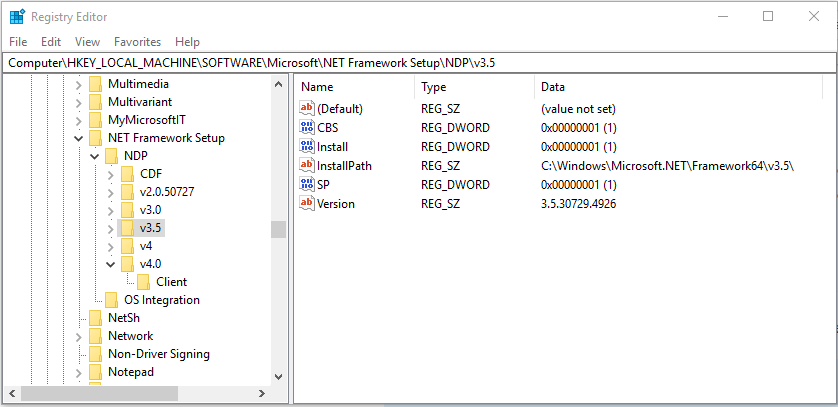
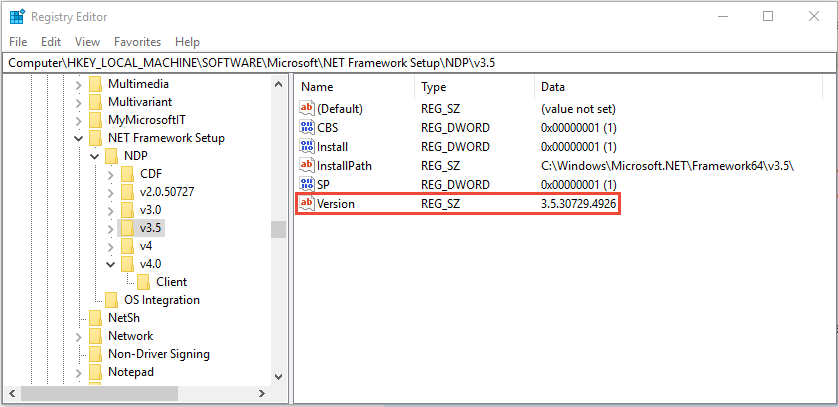
Refresh .NET article: Determine installed versions of .NET Framework (#10513)
* Refresh .NET article: Determine installed versions of .NET Framework

* Edit fixes

* Fix links and tables

* Edits

* Reorg how versions are listed

* Formatting fixes

* Add direct link to table

* Add direct link to table

* Edits

* Edits

* Incorporate edit comments

* Incorporate additional review comments

Changed region(s): [[0.3413, 0.4717, 0.7446, 0.5307]]

diff --git a/docs/framework/migration-guide/how-to-determine-which-versions-are-installed.md b/docs/framework/migration-guide/how-to-determine-which-versions-are-installed.md
@@ -1,6 +1,6 @@
 ---
 title: "How to: Determine which .NET Framework versions are installed"
-ms.date: "02/20/2019"
+ms.date: "03/18/2019"
 dev_langs: 
   - "csharp"
   - "vb"
@@ -14,85 +14,71 @@ ms.author: "ronpet"
 ---
 # How to: Determine which .NET Framework versions are installed
 
-Users can install and run multiple versions of the .NET Framework on their computers. When you develop or deploy your app, you might need to know which .NET Framework versions are installed on the user’s computer. Note that the .NET Framework consists of two main components, which are versioned separately:  
+Users can [install](https://docs.microsoft.com/dotnet/framework/install) and run multiple versions of the .NET Framework on their computers. When you develop or deploy your app, you might need to know which .NET Framework versions are installed on the user’s computer. 
+
+The .NET Framework consists of two main components, which are versioned separately:  
   
 - A set of assemblies, which are collections of types and resources that provide the functionality for your apps. The .NET Framework and assemblies share the same version number.  
   
 - The common language runtime (CLR), which manages and executes your app's code. The CLR is identified by its own version number (see [Versions and Dependencies](~/docs/framework/migration-guide/versions-and-dependencies.md)).  
-  
-To get an accurate list of the .NET Framework versions installed on a computer, you can view the registry or query the registry in code:  
-  
- [Find .NET Framework versions 1-4 in the registry](#net_a)  
- [Find .NET Framework versions 4.5 and later in the registry)](#net_b)  
- [Using code to query the registry (versions 1-4)](#net_c)  
- [Using code to query the registry (version 4.5 and later)](#net_d)  
- [Using PowerShell to query the registry (version 4.5 and later)](#ps_a)  
-
- To find the CLR version, you can use a tool or code:  
-  
- [Using the Clrver tool](#clr_a)  
- [Using code to query the System.Environment class](#clr_b)  
 
 > [!NOTE]
-> There is a difference between the .NET Framework version and the common language runtime (CLR) version. The .NET Framework is versioned based on the set of assemblies that form the .NET Framework Class Library. For example, .NET Framework versions include 4.5, 4.6.1, and 4.7.2. The CLR is versioned based on the runtime on which .NET Framework applications execute, and a single CLR version typically supports multiple .NET Framework versions. CLR version 4.30319.*xxxxx* supports .NET Framework versions 4 through 4.5.2; CLR version 4.30319.42000 supports .NET Framework versions starting with .NET Framework 4.6. For more information, see the <xref:System.Environment.Version?displayProperty=nameWithType> property.
+> Each new version of the .NET Framework retains features from the previous versions and adds new features. You can load multiple versions of the .NET Framework on a single computer at the same time, which means that you can install the .NET Framework without having to uninstall previous versions. In general, you shouldn't uninstall previous versions of the .NET Framework, because an application you use may depend on a specific version and may break if that version is removed.
+>
+> There is a difference between the .NET Framework version and the CLR version: 
+> - The .NET Framework version is based on the set of assemblies that form the .NET Framework class library. For example, .NET Framework versions include 4.5, 4.6.1, and 4.7.2. 
+>- The CLR version is based on the runtime on which .NET Framework applications execute. A single CLR version typically supports multiple .NET Framework versions. For example, CLR version 4.0.30319.*xxxxx* supports .NET Framework versions 4 through 4.5.2 and CLR version 4.0.30319.42000 supports .NET Framework versions starting with .NET Framework 4.6. 
+>
+> For more information about versions, see [.NET Framework versions and dependencies](versions-and-dependencies.md).
 
- For information about detecting the installed updates for each version of the .NET Framework, see [How to: Determine Which .NET Framework Updates Are Installed](~/docs/framework/migration-guide/how-to-determine-which-net-framework-updates-are-installed.md). For information about installing the .NET Framework, see [Install the .NET Framework for developers](../../../docs/framework/install/guide-for-developers.md).  
-  
-<a name="net_a"></a>   
-## Find .NET Framework versions 1-4 in the registry 
-  
-1.  On the **Start** menu, choose **Run**.  
-  
-2.  In the **Open** box, enter **regedit.exe**.  
-  
-     You must have administrative credentials to run regedit.exe.  
-  
-3.  In the Registry Editor, open the following subkey:  
-  
-     `HKEY_LOCAL_MACHINE\SOFTWARE\Microsoft\NET Framework Setup\NDP`  
-  
-     For .NET Framework versions 1.1 through 3.5, the installed versions are listed as subkeys under the `NDP` subkey. The version number is stored in the version subkey's **Version** entry. 
-     
-     For .NET Framework 4, the **Version** entry is under the `HKEY_LOCAL_MACHINE\SOFTWARE\Microsoft\NET Framework Setup\NDP\v4.0\Client` subkey, the `HKEY_LOCAL_MACHINE\SOFTWARE\Microsoft\NET Framework Setup\NDP\v4.0\Full` subkey, or under both subkeys.
 
-    > [!NOTE]
-    > The "NET Framework Setup" folder in the registry does not begin with a period.
+To get a list of the .NET Framework versions installed on a computer, you access the registry. You can either use the Registry Editor to view the registry or use code to query it:
+ 
+- Find newer .NET Framework versions (4.5 and later): 
+     - [Use the Registry Editor to find .NET Framework versions](#net_b)  
+     - [Use code to query the registry for .NET Framework versions](#net_d)  
+     - [Use PowerShell to query the registry for .NET Framework versions](#ps_a)
+ - Find older .NET Framework versions (1&#8211;4):
+     - [Use the Registry Editor to find .NET Framework versions](#net_a)
+     - [Use code to query the registry for .NET Framework versions](#net_c)   
 
-    The following figure shows that the subkey for the .NET Framework 3.5 along with its **Version** entry.
+To get a list of the CLR versions installed on a computer, use a tool or code:  
+  
+ - [Use the Clrver tool](#clr_a)  
+ - [Use code to query the Environment class](#clr_b)  
 
-     ![The registry entry for the .NET Framework 3.5.](../../../docs/framework/migration-guide/media/net-4-and-earlier.png ".NET Framework 4 and earlier versions")
+For information about detecting the installed updates for each version of the .NET Framework, see [How to: Determine which .NET Framework updates are installed](how-to-determine-which-net-framework-updates-are-installed.md). 
+  
+
+## Find newer .NET Framework versions (4.5 and later)
 
 <a name="net_b"></a> 
-## Find .NET Framework versions 4.5 and later in the registry
+### Find .NET Framework versions 4.5 and later in the registry
 
-1. On the **Start** menu, choose **Run**.
+1. From the **Start** menu, choose **Run**, enter *regedit*, and then select **OK**.
 
-2. In the **Open** box, enter **regedit.exe**.
+     You must have administrative credentials to run regedit.
 
-     You must have administrative credentials to run regedit.exe.
-
-3. In the Registry Editor, open the following subkey:
-
-     `HKEY_LOCAL_MACHINE\SOFTWARE\Microsoft\NET Framework Setup\NDP\v4\Full`
-
-     Note that the path to the `Full` subkey includes the subkey `Net Framework` rather than `.NET Framework`.
+2. In the Registry Editor, open the following subkey: **HKEY_LOCAL_MACHINE\SOFTWARE\Microsoft\NET Framework Setup\NDP\v4\Full**. If the **Full** subkey isn't present, then you don't have the .NET Framework 4.5 or later installed.
 
     > [!NOTE]
-    > If the `Full` subkey is not present, then you do not have the .NET Framework 4.5 or later installed.
+    > The **NET Framework Setup** folder in the registry does not begin with a period.
 
-     Check for a DWORD value named `Release`. The existence of the `Release` DWORD indicates that .NET Framework 4.5 or later has been installed on that computer. Its value is a release key that corresponds to a particular version of .NET Framework. In the following figure, for example, the value of the `Release` DWORD is 378389, which is the release key for .NET Framework 4.5. 
+3. Check for a DWORD entry named **Release**. If it exists, then you have .NET Framework 4.5 or later versions installed. Its value is a release key that corresponds to a particular version of the .NET Framework. In the following figure, for example, the value of the **Release** entry is *378389*, which is the release key for .NET Framework 4.5. 
 
-     ![The registry entry for the .NET Framework 4.5.](../../../docs/framework/migration-guide/media/clr-installdir.png "CLR_InstallDir")
+     ![Registry entry for the .NET Framework 4.5](media/clr-installdir.png "Registry entry for the .NET Framework 4.5")
 
-The following table lists the minimum value of the `Release` DWORD for each .NET Framework version. You can use these values as follows:
+The following table lists the minimum value of the **Release** entry for each .NET Framework version. You can use these values as follows:
 
-- To determine whether a minimum .NET Framework version is present, test whether the `Release` DWORD value found in the registry is *greater than or equal to* the value listed in the table. For example, if your application requires .NET Framework 4.7 or later, you would test for a minimum release key value of 460798.
+- To determine whether a minimum .NET Framework version is present, test whether the **Release** DWORD value found in the registry is *greater than or equal to* the value listed in the table. For example, if your application requires the .NET Framework 4.7 or later, you test for a minimum release key value of *460798*.
 
 - To test for multiple versions, begin with the latest .NET Framework version, and then test for each successive earlier version.
 
 [!INCLUDE[Release key values note](~/includes/version-keys-note.md)]
 
-|.NET Framework Version|Value of the Release DWORD|
+<a name="version_table"></a>
+
+|.NET Framework version|Value of the Release DWORD|
 |--------------------------------|-------------|
 |.NET Framework 4.5|378389|
 |.NET Framework 4.5.1|378675|
@@ -106,86 +92,125 @@ The following table lists the minimum value of the `Release` DWORD for each .NET
 
 For a complete table of release keys for the .NET Framework for specific Windows operating system versions, see [.NET Framework release keys and Windows operating system versions](release-keys-and-os-versions.md).
 
-<a name="net_c"></a> 
-## Find .NET Framework versions 1-4 with code
-
-- Use the <xref:Microsoft.Win32.RegistryKey?displayProperty=nameWithType> class to access the `Software\Microsoft\NET Framework Setup\NDP\` subkey under `HKEY_LOCAL_MACHINE` branch in the Windows registry.
-
-     The following code shows an example of this query.
-
-    > [!NOTE]
-    > This code does not show how to detect .NET Framework 4.5 or later. Check the `Release` DWORD to detect those versions, as described in the previous section. For code that detects .NET Framework 4.5 or later versions, see the next section in this article.
-
-     [!code-csharp[ListVersions](../../../samples/snippets/csharp/framework/migration-guide/versions-installed1.cs)]
-     [!code-vb[ListVersions](../../../samples/snippets/visualbasic/framework/migration-guide/versions-installed1.vb)]
 
 <a name="net_d"></a> 
-## Find .NET Framework versions 4.5 and later with code
+### Find .NET Framework versions 4.5 and later with code
 
-1. The existence of the `Release` DWORD in the `HKEY_LOCAL_MACHINE\SOFTWARE\Microsoft\NET Framework Setup\NDP\v4\Full` key indicates that the .NET Framework 4.5 or later is installed on a computer. The value of the keyword indicates the installed version. To check this keyword, use the <xref:Microsoft.Win32.RegistryKey.OpenBaseKey%2A?displayProperty=nameWithType> and <xref:Microsoft.Win32.RegistryKey.OpenSubKey%2A?displayProperty=nameWithType> methods to access the subkey in the Windows registry.
+1. Use the <xref:Microsoft.Win32.RegistryKey.OpenBaseKey%2A?displayProperty=nameWithType> and <xref:Microsoft.Win32.RegistryKey.OpenSubKey%2A?displayProperty=nameWithType> methods to access the **HKEY_LOCAL_MACHINE\SOFTWARE\Microsoft\NET Framework Setup\NDP\v4\Full** subkey in the Windows registry.
 
-2. Check the value of the `Release` keyword to determine the installed version. To be forward-compatible, you can check for a value greater than or equal to the value listed in the table in the [Find .NET Framework versions 4.5 and later in the registry](#net_b) section.
+    The existence of the **Release** DWORD entry in the **HKEY_LOCAL_MACHINE\SOFTWARE\Microsoft\NET Framework Setup\NDP\v4\Full** subkey indicates that the .NET Framework 4.5 or a later version is installed on a computer. 
 
-The following example checks the `Release` value in the registry to determine whether .NET Framework 4.5 or a later version is installed.
+2. Check the value of the **Release** entry to determine the installed version. To be forward-compatible, check for a value greater than or equal to the value listed in the [.NET Framework version table](#version_table).
+
+The following example checks the value of the **Release** entry in the registry to find the .NET Framework 4.5 and later versions that are installed:
 
 [!code-csharp[ListVersions#5](../../../samples/snippets/csharp/framework/migration-guide/versions-installed3.cs)]
 [!code-vb[ListVersions#5](../../../samples/snippets/visualbasic/framework/migration-guide/versions-installed3.vb)]
 
 This example follows the recommended practice for version checking:
 
-- It checks whether the value of the `Release` entry is *greater than or equal to* the value of the known release keys.
+- It checks whether the value of the **Release** entry is *greater than or equal to* the value of the known release keys.
 
 - It checks in order from most recent version to earliest version.
 
 <a name="ps_a"></a> 
-## Check for a minimum required .NET Framework version (4.5 and later) with PowerShell
+### Check for a minimum-required .NET Framework version (4.5 and later) with PowerShell
 
-The following example checks the value of the `Release` keyword to determine whether .NET Framework 4.6.2 or higher is installed (returning `True` if it is and `False` otherwise).
+- Use PowerShell commands to check the value of the **Release** entry of the **HKEY_LOCAL_MACHINE\SOFTWARE\Microsoft\NET Framework Setup\NDP\v4\Full** subkey.
 
-    ```PowerShell
-    # PowerShell 5
-    Get-ChildItem 'HKLM:\SOFTWARE\Microsoft\NET Framework Setup\NDP\v4\Full\' | Get-ItemPropertyValue -Name Release | Foreach-Object { $_ -ge 394802 } 
-    ```
+The following examples check the value of the **Release** entry to determine whether the .NET Framework 4.6.2 or later is installed. This code returns `True` if it's installed and `False` otherwise.
 
-    ```PowerShell
-    # PowerShell 4
-    (Get-ItemProperty "HKLM:SOFTWARE\Microsoft\NET Framework Setup\NDP\v4\Full").Release -gt 394802
-    ```
+```PowerShell
+# PowerShell 5
+ Get-ChildItem 'HKLM:\SOFTWARE\Microsoft\NET Framework Setup\NDP\v4\Full\' |  Get-ItemPropertyValue -Name Release | Foreach-Object { $_ -ge 394802 } 
+ ```
 
-    You can replace `394802` in the previous example with another value from the following table in the [Find .NET Framework versions 4.5 and later in the registry](#net_b) section to check for a different minimum required .NET Framework version.
-  
-<a name="clr_a"></a> 
-## Find the current CLR version with Clrver.exe
-
-Use the CLR Version Tool (Clrver.exe) to determine which versions of the common language runtime are installed on a computer.
-
-From a Developer Command Prompt for Visual Studio, enter `clrver`. This command produces output similar to the following:
-
-```console
-Versions installed on the machine:
-v2.0.50727
-v4.0.30319
+```PowerShell
+# PowerShell 4
+(Get-ItemProperty "HKLM:SOFTWARE\Microsoft\NET Framework Setup\NDP\v4\Full").Release -gt 394802
 ```
 
-For more information about using this tool, see [Clrver.exe (CLR Version Tool)](~/docs/framework/tools/clrver-exe-clr-version-tool.md).
+To check for a different minimum-required .NET Framework version, replace *394802* in these examples with a **Release** value from the [.NET Framework version table](#version_table).
+
+## Find older .NET Framework versions (1&#8211;4)
+
+<a name="net_a"></a>
+### Find .NET Framework versions 1&#8211;4 in the registry 
+  
+1. From the **Start** menu, choose **Run**, enter *regedit*, and then select **OK**.
+  
+    You must have administrative credentials to run regedit.  
+
+2. In the Registry Editor, open the following subkey: **HKEY_LOCAL_MACHINE\SOFTWARE\Microsoft\NET Framework Setup\NDP**:  
+
+    - For .NET Framework versions 1.1 through 3.5, each installed version is listed as a subkey under the **HKEY_LOCAL_MACHINE\SOFTWARE\Microsoft\NET Framework Setup\NDP** subkey. For example, **HKEY_LOCAL_MACHINE\SOFTWARE\Microsoft\NET Framework Setup\NDP\v3.5**. The version number is stored as a value in the version subkey's **Version** entry. 
+     
+    - For .NET Framework 4, the **Version** entry is under the **HKEY_LOCAL_MACHINE\SOFTWARE\Microsoft\NET Framework Setup\NDP\v4.0\Client** subkey, the **HKEY_LOCAL_MACHINE\SOFTWARE\Microsoft\NET Framework Setup\NDP\v4.0\Full** subkey, or under both subkeys.
+
+    > [!NOTE]
+    > The **NET Framework Setup** folder in the registry does not begin with a period.
+
+    The following figure shows the subkey and its **Version** entry for the .NET Framework 3.5.
+
+    ![The registry entry for the .NET Framework 3.5.](media/net-4-and-earlier.png ".NET Framework 3.5 and earlier versions")
+
+<a name="net_c"></a> 
+### Find .NET Framework versions 1&#8211;4 with code
+
+- Use the <xref:Microsoft.Win32.RegistryKey?displayProperty=nameWithType> class to access the **HKEY_LOCAL_MACHINE\Software\Microsoft\NET Framework Setup\NDP** subkey in the Windows registry.
+
+The following example finds the .NET Framework 1&#8211;4 versions that are installed:
+
+[!code-csharp[ListVersions](../../../samples/snippets/csharp/framework/migration-guide/versions-installed1.cs)]
+[!code-vb[ListVersions](../../../samples/snippets/visualbasic/framework/migration-guide/versions-installed1.vb)]
+
+
+## Find CLR versions
+  
+<a name="clr_a"></a> 
+### Find the current CLR version with Clrver.exe
+
+Use the [CLR Version tool (Clrver.exe)](../tools/clrver-exe-clr-version-tool.md) to determine which versions of the CLR are installed on a computer:
+
+- From a [Developer Command Prompt for Visual Studio](https://docs.microsoft.com/dotnet/framework/tools/developer-command-prompt-for-vs), enter `clrver`.
+
+    Sample output:
+
+    ```console
+    Versions installed on the machine:
+    v2.0.50727
+    v4.0.30319
+    ```
 
 <a name="clr_b"></a> 
-## Find the current CLR version with the Environment class
-
-You can retrieve the value of the <xref:System.Environment.Version?displayProperty=nameWithType> property to retrieve a <xref:System.Version> object that identifies the version of the runtime that is currently executing the code. This property returns a single value that reflects the version of the runtime that is currently executing the code; it does not return assembly versions or other versions of the runtime that may have been installed on the computer.You can use the <xref:System.Version.Major%2A?displayProperty=nameWithType> property to get the major release identifier (for example, "4" for version 4.0), the <xref:System.Version.Minor%2A?displayProperty=nameWithType> property to get the minor release identifier (for example, "0" for version 4.0), or the <xref:System.Version.ToString%2A?displayProperty=nameWithType> method to get the entire version string (for example, "4.0.30319.18010", as shown in the following code). 
-
-For the .NET Framework Versions 4, 4.5, 4.5.1, and 4.5.2, the <xref:System.Environment.Version%2A?displayProperty=nameWithType> property returns a <xref:System.Version> object whose string representation has the form `4.0.30319.xxxxx`. For the .NET Framework 4.6 and later, it has the form `4.0.30319.42000`.
+### Find the current CLR version with the Environment class
 
 > [!IMPORTANT]
-> For the .NET Framework 4.5 and later, we do not recommend using the  <xref:System.Environment.Version%2A?displayProperty=nameWithType> property to detect the version of the runtime. Instead, we recommend that you query the registry, as described in the [To find .NET Framework versions by querying the registry in code (.NET Framework 4.5 and later)](#net_d) section earlier in this article.
+> For the .NET Framework 4.5 and later versions, don't use the <xref:System.Environment.Version%2A?displayProperty=nameWithType> property to detect the version of the CLR. Instead, query the registry as described in [Find .NET Framework versions 4.5 and later with code](#net_d).
 
-The following example used the <xref:System.Environment.Version%2A?displayProperty=nameWithType> property to retrieve runtime version information:
+1. Query the <xref:System.Environment.Version?displayProperty=nameWithType> property to retrieve a <xref:System.Version> object. 
+
+    The returned `System.Version` object identifies the version of the runtime that's currently executing the code. It doesn't return assembly versions or other versions of the runtime that may have been installed on the computer.
+
+    For the .NET Framework versions 4, 4.5, 4.5.1, and 4.5.2, the string representation of the returned <xref:System.Version> object has the form 4.0.30319.*xxxxx*. For the .NET Framework 4.6 and later versions, it has the form 4.0.30319.42000.    
+
+2. After you have the `Version` object, query it as follows:
+
+   - For the major release identifier (for example, *4* for version 4.0), use the <xref:System.Version.Major%2A?displayProperty=nameWithType> property.
+
+   - For the minor release identifier (for example, *0* for version 4.0), use the <xref:System.Version.Minor%2A?displayProperty=nameWithType> property.
+
+   - For the entire version string (for example, *4.0.30319.18010*), use the <xref:System.Version.ToString%2A?displayProperty=nameWithType> method. This method returns a single value that reflects the version of the runtime that's executing the code. It doesn't return assembly versions or other runtime versions that may be installed on the computer.
+
+
+
+The following example uses the <xref:System.Environment.Version%2A?displayProperty=nameWithType> property to retrieve CLR version information:
 
 [!code-csharp[ListVersions](../../../samples/snippets/csharp/framework/migration-guide/versions-installed2.cs)]
 [!code-vb[ListVersions](../../../samples/snippets/visualbasic/framework/migration-guide/versions-installed2.vb)]
 
 ## See also
 
-- [How to: Determine Which .NET Framework Updates Are Installed](~/docs/framework/migration-guide/how-to-determine-which-net-framework-updates-are-installed.md)
-- [Install the .NET Framework for developers](../../../docs/framework/install/guide-for-developers.md)
-- [Versions and Dependencies](~/docs/framework/migration-guide/versions-and-dependencies.md)
+- [How to: Determine which .NET Framework updates are installed](how-to-determine-which-net-framework-updates-are-installed.md)
+- [Install the .NET Framework for developers](../install/guide-for-developers.md)
+- [.NET Framework versions and dependencies](versions-and-dependencies.md)
